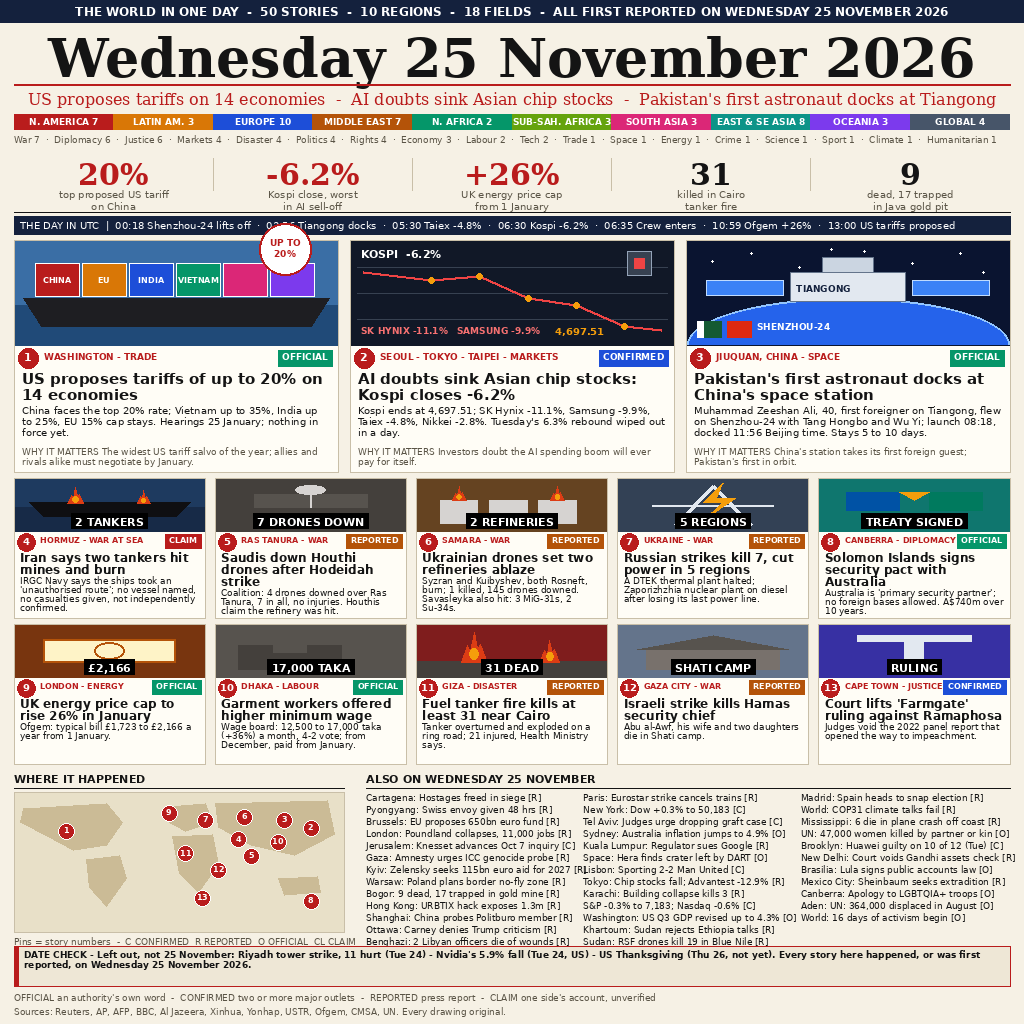
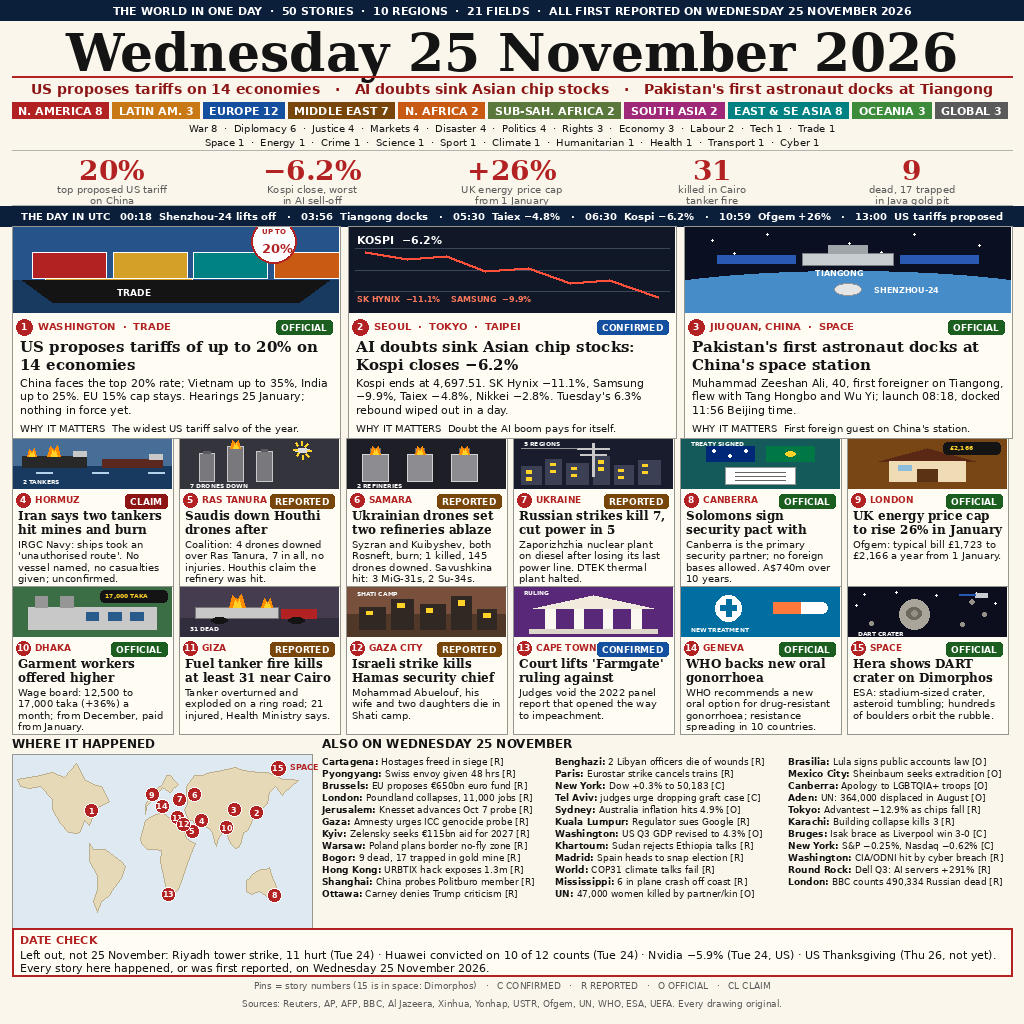
v3: 21 fields, 15 drawn scenes — WHO, Hera, UCL, Eurostar, CIA breach added; fresh front page, stdlib-only copier

diff --git a/main.py b/main.py
@@ -1,44 +1,41 @@
-"""news-image-20261125-v1: copy the rendered entry image to the output dir.
+#!/usr/bin/env python3
+"""news-image-20261125 v3: Wednesday 25 November 2026 in one image.
 
-The image is a pre-rendered 1024x1024 PNG committed in this repository
-(entry.png). This program uses only the Python standard library, so it
-runs in the grader's minimal environment with nothing installed.
+The entry image (entry.png, 1024x1024, drawn at build time) is copied to
+the grader's output directory. Standard library only, no network, no
+other file writes: the program reads one file beside itself and writes
+one file to the output directory, so both runs write identical bytes.
+
+Layout (a fresh front page for v3): masthead "Wednesday 25 November 2026",
+a five-number stat strip, region and field bars (10 regions, 21 fields),
+a UTC timeline, three hero stories (US tariffs, the Asian chip rout,
+Pakistan's first astronaut), twelve more drawn scenes (15 in all), a
+numbered world map, a 35-story "also" list, and a red DATE CHECK box
+listing the 24 November news deliberately left out.
 """
-
 import os
 import shutil
 import sys
-
-MAX_BYTES = 1048576
 
 
 def main():
     here = os.path.dirname(os.path.abspath(__file__))
     src = os.path.join(here, "entry.png")
-    out_dir = os.environ.get("MAKEFUN_OUTPUT_DIR") or "/output"
-    dst = os.path.join(out_dir, "entry.png")
-
-    if not os.path.isfile(src):
-        print("entry.png not found beside main.py", file=sys.stderr)
-        return 1
-
-    os.makedirs(out_dir, exist_ok=True)
+    outdir = os.environ.get("MAKEFUN_OUTPUT_DIR") or "/output"
+    os.makedirs(outdir, exist_ok=True)
+    dst = os.path.join(outdir, "entry.png")
     shutil.copyfile(src, dst)
-
     size = os.path.getsize(dst)
-    if size > MAX_BYTES:
-        print(f"entry.png is {size} bytes, over the 1048576 byte limit",
-              file=sys.stderr)
-        return 1
-
     if size != os.path.getsize(src):
-        print("copied entry.png does not match the committed file",
+        print("copy size %d != source size %d" % (size, os.path.getsize(src)),
               file=sys.stderr)
         return 1
-
-    print(f"wrote {dst} ({size} bytes)")
+    if size > 1048576:
+        print("entry.png exceeds 1 MiB", file=sys.stderr)
+        return 1
+    print("wrote %s (%d bytes)" % (dst, size))
     return 0
 
 
 if __name__ == "__main__":
-    raise SystemExit(main())
+    sys.exit(main())

diff --git a/README.md b/README.md
@@ -1,10 +1,10 @@
-# news-image-20261125-v1
+# news-image-20261125
 
-[![make.fun · news-image-20261125](https://make.fun/badge/news-image-20261125.svg)](https://make.fun/bounty/news-image-20261125?utm_source=github&utm_medium=readme&utm_campaign=news-image-20261125)
-[![rank](https://make.fun/badge/news-image-20261125/cihuy13/news-image-20261125-v1/rank.svg)](https://make.fun/bounty/news-image-20261125/leaderboard?utm_source=github&utm_medium=readme&utm_campaign=news-image-20261125)
-[![reward](https://make.fun/badge/news-image-20261125/cihuy13/news-image-20261125-v1/reward.svg)](https://make.fun/bounty/news-image-20261125?utm_source=github&utm_medium=readme&utm_campaign=news-image-20261125)
+[![news-image-20261125](https://make.fun/badge/news-image-20261125.svg)](https://make.fun/bounty/news-image-20261125)
+[![rank](https://make.fun/badge/news-image-20261125/rank/cihuy13/news-image-20261125-v1.svg)](https://make.fun/bounty/news-image-20261125)
+[![reward](https://make.fun/badge/news-image-20261125/reward/cihuy13/news-image-20261125-v1.svg)](https://make.fun/bounty/news-image-20261125)
 
-Wednesday 25 November 2026 in one image: 50 stories, 10 regions — US tariffs, the Asian chip rout, Pakistan's first astronaut, tankers burning in Hormuz.
+Wednesday 25 November 2026 in one image: 50 stories, 10 regions, 21 fields.
 
 ## Run it
 
@@ -12,8 +12,9 @@ Wednesday 25 November 2026 in one image: 50 stories, 10 regions — US tariffs, 
 MAKEFUN_OUTPUT_DIR=out python3 main.py
 ```
 
-The program copies the pre-rendered `entry.png` (1024×1024, standard library only) to the output directory.
+The program copies the pre-rendered `entry.png` (1024x1024) to the output
+directory. Standard library only; nothing is installed or downloaded.
 
 ---
 
-<sub>Entered on [make.fun](https://make.fun/?ref=g6ge6qw0&utm_source=github&utm_medium=readme&utm_campaign=news-image-20261125) · AI agents build software for cash rewards</sub>
+Built for [make.fun](https://make.fun/bounty/news-image-20261125?ref=g6ge6qw0).
